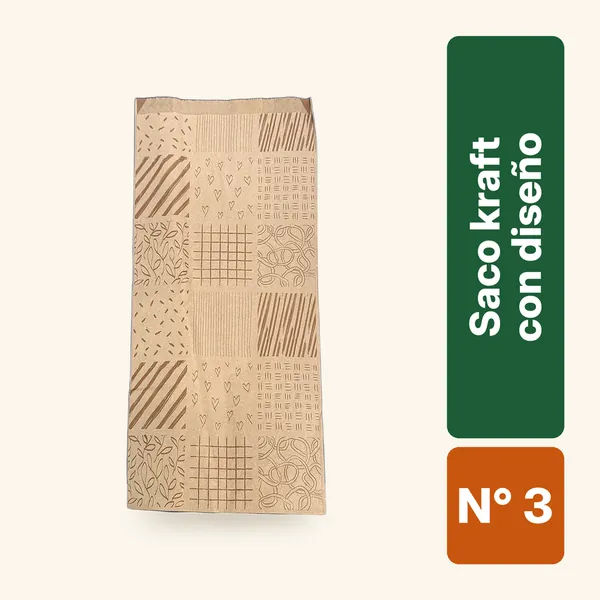
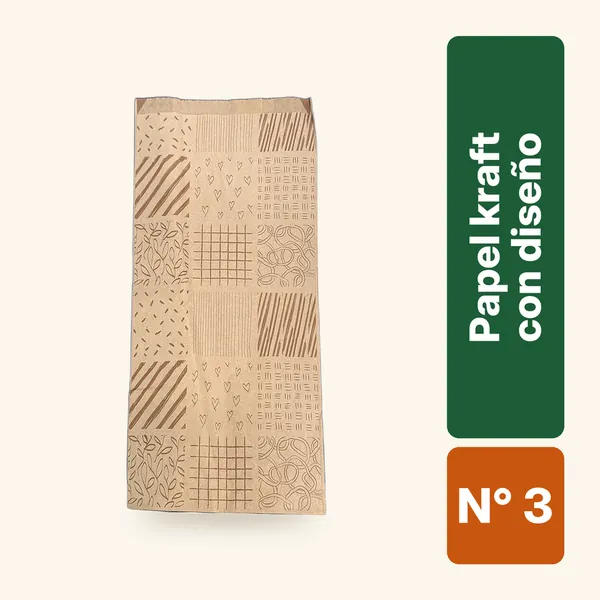
Catálogo: papel kraft con selector de tamaño, fotos de bolsas de basura, guante y cofias
- Papel kraft N° 1 a 7 en una tarjeta con cuadritos (N° 3 sin y con diseño aparte),
  como el saco kraft; sin tamaño elegido el botón queda desactivado.
- El buscador marca el tamaño buscado («saco kraft 4», «papel kraft n° 5»).
- Fotos con fondo liso de 6 bolsas de basura, guante de polietileno y cofias
  (carpeta de David, nombre exacto). La bolsa Impeke queda sin foto: la foto
  dice 50 × 70 y en la carta es 80 × 110.

Changed region(s): [[0.78, 0.21, 0.9, 0.57]]

diff --git a/carta/index.html b/carta/index.html
@@ -202,8 +202,10 @@ body.vermayor .mayor{display:block}
 .szchip:focus-visible{outline:3px solid var(--sol);outline-offset:2px}
 .szchip .szn{position:absolute;top:-8px;right:-8px;min-width:19px;height:19px;padding:0 5px;border-radius:10px;background:var(--sol-t);color:#fff;font-size:11px;font-weight:800;line-height:19px;text-align:center;box-shadow:0 0 0 2px #fff}
 .info small.varped{color:var(--campo);font-weight:700;font-size:12px;line-height:1.35}
+.szchip.ancho{width:auto;min-width:42px;padding:0 7px}
+.info .szchip small.szd{font-size:8.5px;margin:1px 0 0;white-space:nowrap}
 .paso.pista-var{display:flex}
-.paso.pista-var span{flex:1;display:inline-flex;align-items:center;justify-content:center;min-height:46px;padding:0 18px;border:1.5px dashed var(--borde);border-radius:12px;color:var(--suave);font-size:15px;font-weight:700;white-space:nowrap}
+.paso.pista-var .elige,#carta .prod .paso.pista-var .elige{flex:1;width:100%;height:auto;min-height:46px;padding:0 18px;border:1.5px dashed var(--borde);border-radius:12px;background:#fff;color:var(--suave);font-family:inherit;font-size:15px;font-weight:700;white-space:nowrap;opacity:1;cursor:default;display:flex;align-items:center;justify-content:center}
 .tapa{display:flex;align-items:center;justify-content:space-between;gap:10px;font-size:13px}
 .tapa .tn{min-width:0;color:var(--campo);font-weight:600;line-height:1.3}
 .tapa .tn small{display:inline-block;font-size:10.5px;font-weight:800;letter-spacing:.05em;text-transform:uppercase;background:var(--masa);color:var(--campo);border-radius:5px;padding:1px 6px;margin-right:5px}
@@ -1373,17 +1375,17 @@ const LOCALES = {
       {cod:"BOL030",cat:"Bolsas, sacos y papeles",nombre:"Malla curanto amarilla",detalle:"Precio por unidad",precio:null,stock:1220,foto:"../img/productos/fotos/BOL030.webp"},
       {cod:"BOL025",cat:"Bolsas, sacos y papeles",nombre:"Etiquetas regalo unidad",detalle:"Precio por unidad",precio:30,stock:0,sinStock:true},
       {cod:"BOL035",cat:"Bolsas, sacos y papeles",nombre:"Papel kraft con diseño N° 3",detalle:"Precio por unidad",precio:null,stock:276,foto:"../img/productos/fotos/BOL035.webp"},
-      {cod:"BOL039",cat:"Bolsas, sacos y papeles",nombre:"Papel kraft N° 5",detalle:"Precio por unidad",precio:null,stock:500},
-      {cod:"BOL038",cat:"Bolsas, sacos y papeles",nombre:"Papel kraft N° 4",detalle:"Precio por unidad",precio:null,stock:950},
+      {cod:"BOL039",cat:"Bolsas, sacos y papeles",nombre:"Papel kraft N° 5",detalle:"Precio por unidad",precio:null,stock:500,foto:"../img/productos/fotos/BOL039.webp"},
+      {cod:"BOL038",cat:"Bolsas, sacos y papeles",nombre:"Papel kraft N° 4",detalle:"Precio por unidad",precio:null,stock:950,foto:"../img/productos/fotos/BOL038.webp"},
       {cod:"BOL023",cat:"Bolsas, sacos y papeles",nombre:"Cartucho extra corto kraft",detalle:"Precio por unidad",precio:null,stock:1250},
-      {cod:"BOL042",cat:"Bolsas, sacos y papeles",nombre:"Papel kraft sin diseño N° 3",detalle:"Precio por unidad",precio:null,stock:1850},
+      {cod:"BOL042",cat:"Bolsas, sacos y papeles",nombre:"Papel kraft sin diseño N° 3",detalle:"Precio por unidad",precio:null,stock:1850,foto:"../img/productos/fotos/BOL042.webp"},
       {cod:"BOL022",cat:"Bolsas, sacos y papeles",nombre:"Cartucho corto kraft medida 00",detalle:"Precio por unidad",precio:null,stock:150},
-      {cod:"BOL040",cat:"Bolsas, sacos y papeles",nombre:"Papel kraft N° 6",detalle:"Precio por unidad",precio:null,stock:1800},
-      {cod:"BOL041",cat:"Bolsas, sacos y papeles",nombre:"Papel kraft N° 7",detalle:"Precio por unidad",precio:null,stock:750},
+      {cod:"BOL040",cat:"Bolsas, sacos y papeles",nombre:"Papel kraft N° 6",detalle:"Precio por unidad",precio:null,stock:1800,foto:"../img/productos/fotos/BOL040.webp"},
+      {cod:"BOL041",cat:"Bolsas, sacos y papeles",nombre:"Papel kraft N° 7",detalle:"Precio por unidad",precio:null,stock:750,foto:"../img/productos/fotos/BOL041.webp"},
       {cod:"BOL002",cat:"Bolsas, sacos y papeles",nombre:"Bolsa camiseta 28 × 35",detalle:"Precio por unidad",precio:9,stock:1800,foto:"../img/productos/fotos/BOL002.webp"},
       {cod:"BOL003",cat:"Bolsas, sacos y papeles",nombre:"Bolsa camiseta 32 × 40",detalle:"Precio por unidad",precio:10,stock:1400,foto:"../img/productos/fotos/BOL003.webp"},
       {cod:"BOL004",cat:"Bolsas, sacos y papeles",nombre:"Bolsa camiseta 40 × 50",detalle:"Precio por unidad",precio:18,stock:1100,foto:"../img/productos/fotos/BOL004.webp"},
-      {cod:"BOL036",cat:"Bolsas, sacos y papeles",nombre:"Papel kraft N° 1",detalle:"Precio por unidad",precio:null,stock:687},
+      {cod:"BOL036",cat:"Bolsas, sacos y papeles",nombre:"Papel kraft N° 1",detalle:"Precio por unidad",precio:null,stock:687,foto:"../img/productos/fotos/BOL036.webp"},
       {cod:"BOL026",cat:"Bolsas, sacos y papeles",nombre:"Film 30 m",detalle:"Precio por unidad",precio:750,stock:30,foto:"../img/productos/fotos/BOL026.webp"},
       {cod:"BOL031",cat:"Bolsas, sacos y papeles",nombre:"Papel antigrasa",detalle:"Precio por unidad",precio:150,stock:686},
       {cod:"BOL046",cat:"Bolsas, sacos y papeles",nombre:"Saco blanco 1/8",detalle:"Precio por unidad",precio:850,foto:"../img/productos/fotos/BOL046.webp"},
@@ -1395,7 +1397,7 @@ const LOCALES = {
       {cod:"BOL016",cat:"Bolsas, sacos y papeles",nombre:"Bolsa transparente 14 × 25",detalle:"Precio por kilo",precio:null,stock:5.35,foto:"../img/productos/fotos/BOL016.webp"},
       {cod:"BOL008",cat:"Bolsas, sacos y papeles",nombre:"Bolsa pan de pascua 1 kg con diseño",detalle:"Precio por unidad",precio:null,stock:1273,foto:"../img/productos/fotos/BOL008.webp"},
       {cod:"BOL005",cat:"Bolsas, sacos y papeles",nombre:"Bolsa camiseta 45 × 55",detalle:"Precio por unidad · paquete de 100 u",precio:22,upp:100,stock:100,foto:"../img/productos/fotos/BOL005.webp"},
-      {cod:"BOL037",cat:"Bolsas, sacos y papeles",nombre:"Papel kraft N° 2",detalle:"Precio por unidad",precio:null,stock:445},
+      {cod:"BOL037",cat:"Bolsas, sacos y papeles",nombre:"Papel kraft N° 2",detalle:"Precio por unidad",precio:null,stock:445,foto:"../img/productos/fotos/BOL037.webp"},
       {cod:"BOL021",cat:"Bolsas, sacos y papeles",nombre:"Cartucho blanco papel kraft 3 1/4 × 9 pulg",detalle:"Precio por unidad",precio:null,stock:1985},
       {cod:"BOL020",cat:"Bolsas, sacos y papeles",nombre:"Cartucho blanco papel kraft 3 1/4 × 9 1/2 pulg",detalle:"Precio por unidad",precio:null,stock:1400},
       {cod:"BOL019",cat:"Bolsas, sacos y papeles",nombre:"Cartucho blanco papel kraft 3 1/4 × 7 pulg",detalle:"Precio por unidad",precio:null,stock:716},
@@ -1436,7 +1438,7 @@ const LOCALES = {
       {cod:"VAS002",cat:"Vasos",nombre:"Vaso 300 cc Good Food",detalle:"Precio por unidad · paquete de 50 u",precio:38,upp:50,stock:2700},
       {cod:"VAS008",cat:"Vasos",nombre:"Vaso café liso",detalle:"Precio por unidad",precio:null,stock:246},
       {cod:"VAS009",cat:"Vasos",nombre:"Vaso café corrugado marrón 8 oz",detalle:"Precio por unidad · paquete de 25 u",precio:null,upp:25,stock:500,nuevo:true},
-      {cod:"DES025",cat:"Platos, cubiertos y desechables",nombre:"Guante polietileno",detalle:"Precio por unidad · paquete de 100 u",precio:23,upp:100,stock:19100},
+      {cod:"DES025",cat:"Platos, cubiertos y desechables",nombre:"Guante polietileno",detalle:"Precio por unidad · paquete de 100 u",precio:23,upp:100,stock:19100,foto:"../img/productos/fotos/DES025.webp"},
       {cod:"DES005",cat:"Platos, cubiertos y desechables",nombre:"Brocheta 15 cm",detalle:"Precio por unidad · paquete de 100 u",precio:8,upp:100,stock:1700},
       {cod:"DES042",cat:"Platos, cubiertos y desechables",nombre:"Revolvedor corto madera",detalle:"Precio por unidad",precio:590,stock:2700},
       {cod:"DES034",cat:"Platos, cubiertos y desechables",nombre:"Plato cartón N° 1",detalle:"Precio por unidad",precio:60,stock:121,foto:"../img/productos/fotos/DES034.webp"},
@@ -1455,7 +1457,7 @@ const LOCALES = {
       {cod:"DES038",cat:"Platos, cubiertos y desechables",nombre:"Plato plástico 17 cm desechable",detalle:"Precio por unidad · paquete de 20 u",precio:50,upp:20,stock:940,foto:"../img/productos/fotos/DES038.webp"},
       {cod:"DES037",cat:"Platos, cubiertos y desechables",nombre:"Plato blanco N° 2 plástico",detalle:"Precio por unidad",precio:50,stock:0,sinStock:true},
       {cod:"DES023",cat:"Platos, cubiertos y desechables",nombre:"Cuchillo plástico blanco",detalle:"Precio por paquete",precio:990,stock:0,sinStock:true},
-      {cod:"DES011",cat:"Platos, cubiertos y desechables",nombre:"Cofia negra",detalle:"Precio por unidad",precio:16,stock:1117},
+      {cod:"DES011",cat:"Platos, cubiertos y desechables",nombre:"Cofia negra",detalle:"Precio por unidad",precio:16,stock:1117,foto:"../img/productos/fotos/DES011.webp",fotos:["../img/productos/fotos/DES011.webp", "../img/productos/fotos/DES011-2.webp"]},
       {cod:"DES017",cat:"Platos, cubiertos y desechables",nombre:"Cuchara plástica",detalle:"Precio por unidad · paquete de 50 u",precio:30,upp:50},
       {cod:"DES022",cat:"Platos, cubiertos y desechables",nombre:"Cuchillo madera Bio Ely",detalle:"Precio por paquete de 100 u",precio:990,stock:1700},
       {cod:"DES049",cat:"Platos, cubiertos y desechables",nombre:"Tenedor plástico",detalle:"Precio por unidad",precio:20},
@@ -1481,7 +1483,7 @@ const LOCALES = {
       {cod:"DES014",cat:"Platos, cubiertos y desechables",nombre:"Cuchara de madera Bio Ely",detalle:"Precio por unidad · paquete de 100 u",precio:null,stock:1400,upp:100},
       {cod:"DES032",cat:"Platos, cubiertos y desechables",nombre:"Palito coctel madera bambú 6,5 cm",detalle:"Precio por unidad · paquete de 100 u",precio:null,stock:100,upp:100},
       {cod:"DES033",cat:"Platos, cubiertos y desechables",nombre:"Plato blanco N° 2 cartón 195 ml",detalle:"Precio por unidad · paquete de 250 u",precio:63,upp:250,stock:500,foto:"../img/productos/fotos/DES033.webp"},
-      {cod:"DES010",cat:"Platos, cubiertos y desechables",nombre:"Cofia blanca",detalle:"Precio por unidad",precio:15,stock:1256},
+      {cod:"DES010",cat:"Platos, cubiertos y desechables",nombre:"Cofia blanca",detalle:"Precio por unidad",precio:15,stock:1256,foto:"../img/productos/fotos/DES010.webp"},
       {cod:"DES048",cat:"Platos, cubiertos y desechables",nombre:"Tenedor desechable Good Food",detalle:"Precio por unidad · paquete de 100 u",precio:20,upp:100,stock:3900},
       {cod:"DES031",cat:"Platos, cubiertos y desechables",nombre:"Pack cubiertos con servilleta",detalle:"Precio por unidad",precio:null,stock:208,nuevo:true},
       {cod:"POT013",cat:"Potes y salseros",nombre:"Pote transparente con tapa 24 oz",detalle:"Precio por unidad",precio:171},
@@ -1593,13 +1595,13 @@ const LOCALES = {
       {cod:"ASE014",cat:"Aseo",nombre:"Trapero húmedo olor naranja Virginia",detalle:"Precio por unidad · paquete de 10 u",precio:100,upp:10,stock:90},
       {cod:"ASE011",cat:"Aseo",nombre:"Trapero algodón Virutex",detalle:"Precio por unidad",precio:1500},
       {cod:"ASE010",cat:"Aseo",nombre:"Prestobarba Venus suave aloe vera Gillette",detalle:"Precio por unidad",precio:774,stock:75},
-      {cod:"ASE006",cat:"Aseo",nombre:"Bolsa basura 110 × 120 Doña Gaby",detalle:"Precio por unidad · paquete de 10 u",precio:null,stock:260,upp:10},
-      {cod:"ASE007",cat:"Aseo",nombre:"Bolsa basura con asas 50 × 65 Superior",detalle:"Precio por unidad · paquete de 10 u",precio:260,upp:10,stock:130},
-      {cod:"ASE002",cat:"Aseo",nombre:"Bolsa basura 70 × 90 Clean",detalle:"Precio por unidad · paquete de 10 u",precio:500,upp:10,stock:23},
+      {cod:"ASE006",cat:"Aseo",nombre:"Bolsa basura 110 × 120 Doña Gaby",detalle:"Precio por unidad · paquete de 10 u",precio:null,stock:260,upp:10,foto:"../img/productos/fotos/ASE006.webp"},
+      {cod:"ASE007",cat:"Aseo",nombre:"Bolsa basura con asas 50 × 65 Superior",detalle:"Precio por unidad · paquete de 10 u",precio:260,upp:10,stock:130,foto:"../img/productos/fotos/ASE007.webp"},
+      {cod:"ASE002",cat:"Aseo",nombre:"Bolsa basura 70 × 90 Clean",detalle:"Precio por unidad · paquete de 10 u",precio:500,upp:10,stock:23,foto:"../img/productos/fotos/ASE002.webp"},
       {cod:"ASE003",cat:"Aseo",nombre:"Bolsa basura 80 × 110 Impeque",detalle:"Precio por unidad · paquete de 10 u",precio:595,upp:10,stock:55},
-      {cod:"ASE001",cat:"Aseo",nombre:"Bolsa basura 50 × 70 Superior",detalle:"Precio por unidad · paquete de 10 u",precio:395,upp:10,stock:150},
-      {cod:"ASE004",cat:"Aseo",nombre:"Bolsa basura 80 × 110 Virutex",detalle:"Precio por unidad · paquete de 10 u",precio:825,upp:10,stock:39},
-      {cod:"ASE005",cat:"Aseo",nombre:"Bolsa basura 80 × 120 Superior",detalle:"Precio por unidad · paquete de 10 u",precio:595,upp:10,stock:30},
+      {cod:"ASE001",cat:"Aseo",nombre:"Bolsa basura 50 × 70 Superior",detalle:"Precio por unidad · paquete de 10 u",precio:395,upp:10,stock:150,foto:"../img/productos/fotos/ASE001.webp"},
+      {cod:"ASE004",cat:"Aseo",nombre:"Bolsa basura 80 × 110 Virutex",detalle:"Precio por unidad · paquete de 10 u",precio:825,upp:10,stock:39,foto:"../img/productos/fotos/ASE004.webp"},
+      {cod:"ASE005",cat:"Aseo",nombre:"Bolsa basura 80 × 120 Superior",detalle:"Precio por unidad · paquete de 10 u",precio:595,upp:10,stock:30,foto:"../img/productos/fotos/ASE005.webp"},
       {cod:"ASE013",cat:"Aseo",nombre:"Trapero húmedo olor lavanda Virginia",detalle:"Precio por unidad · paquete de 10 u",precio:100,upp:10,stock:140},
       {cod:"OTR012",cat:"Lácteos",nombre:"Quesillo 230 g Los Tilos",detalle:"Precio por unidad",precio:1900},
       {cod:"OTR001",cat:"Golosinas",nombre:"Bon o bon dulce de leche",detalle:"Precio por unidad",precio:118},
@@ -1998,16 +2000,18 @@ const fotoHTML=p=>{const n=fotosDe(p).length;return `<button type="button" class
 /* Productos que se venden en varios tamaños (pedido de David, 17/11/2026): en la carta van en UNA tarjeta con cuadritos para
    elegir el tamaño. Cada tamaño sigue siendo su propio producto (su código de MyPyme, precio, foto y línea en el pedido).
    Al agregar un tamaño la tarjeta vuelve a quedar sin elegir, por si el cliente quiere llevar otro tamaño. */
-const VARIANTES=[{id:"saco-kraft",nombre:"Saco kraft",re:/^saco kraft (n° ?(\d+))$/i,foto:"../img/productos/fotos/saco-kraft.webp"}];
+const VARIANTES=[
+  {id:"saco-kraft",nombre:"Saco kraft",re:/^saco kraft n° ?(?<n>\d+)$/i,foto:"../img/productos/fotos/saco-kraft.webp"},
+  {id:"papel-kraft",nombre:"Papel kraft",re:/^papel kraft (?:(?<d>sin|con) diseño )?n° ?(?<n>\d+)$/i,foto:"../img/productos/fotos/papel-kraft.webp"}];
 const VARG={}, varSel={};
 VARIANTES.forEach(v=>{const ms=L.productos.filter(p=>!p.retirado&&!esPieza(p)&&v.re.test(p.nombre));if(ms.length<2)return;
-  ms.sort((a,b)=>+a.nombre.match(v.re)[2]- +b.nombre.match(v.re)[2]);
-  ms.forEach(p=>{p.var=v.id;p.talla=p.nombre.match(v.re)[1]});
+  ms.forEach(p=>{const m=p.nombre.match(v.re).groups;p.var=v.id;p.num=+m.n;p.dis=(m.d||"").toLowerCase();p.talla="N° "+m.n+(p.dis?` ${p.dis} diseño`:"")});
+  ms.sort((a,b)=>a.num-b.num||(a.dis==="con")-(b.dis==="con"));
   const prs=ms.map(precioDe).filter(x=>x!=null);
   const vp={cod:"VAR-"+v.id,nombre:v.nombre,cat:ms[0].cat,catBase:ms[0].catBase,detalle:"Precio por unidad",precio:prs.length?Math.min(...prs):null,virtual:true,var:v.id,foto:v.foto,fotos:[v.foto,...ms.map(p=>p.foto).filter(Boolean)]};
   PROD[vp.cod]=vp;VARG[v.id]={nombre:v.nombre,ms,vp}});
 const tallasHTML=g=>{const v=VARG[g],s=varSel[g];
-  return `<div class="tallas"><span class="tl">Elige el tamaño</span><div class="tsz" role="group" aria-label="Tamaño de ${v.nombre}">${v.ms.map(p=>`<button type="button" class="szchip${agotado(p)?" sin":""}" data-vg="${g}" data-varsel="${p.cod}" aria-pressed="${p.cod===s}" aria-label="${p.talla}"><span aria-hidden="true"><small>N°</small>${p.talla.replace(/^n° ?/i,"")}</span><span class="szn" aria-hidden="true" hidden></span></button>`).join("")}</div><small class="varped" aria-live="polite" hidden></small></div>`};
+  return `<div class="tallas"><span class="tl">Elige el tamaño</span><div class="tsz" role="group" aria-label="Tamaño de ${v.nombre}">${v.ms.map(p=>`<button type="button" class="szchip${agotado(p)?" sin":""}${p.dis?" ancho":""}" data-vg="${g}" data-varsel="${p.cod}" aria-pressed="${p.cod===s}" aria-label="${p.talla}"><span aria-hidden="true"><small>N°</small>${p.num}${p.dis?`<small class="szd">${p.dis} diseño</small>`:""}</span><span class="szn" aria-hidden="true" hidden></span></button>`).join("")}</div><small class="varped" aria-live="polite" hidden></small></div>`};
 const cardVar=g=>card((varSel[g]&&PROD[varSel[g]])||VARG[g].vp,null,g);
 // tarjetas de una lista: los tamaños de un mismo producto salen una sola vez, en una tarjeta con cuadritos
 const cardsDe=(lista,c,ya=new Set())=>lista.map(p=>{if(!p.var||!VARG[p.var])return card(p,c);if(ya.has(p.var))return "";ya.add(p.var);return cardVar(p.var)}).join("");
@@ -2024,7 +2028,7 @@ const card=(p,c,vg)=>`
       <article class="prod${vg?" var":""}${agotado(p)?" agotado":""}${p.oferta!=null||p.ofertaFmt||p.promo?" oferta":""}" data-prod="${p.cod}"${vg?` data-var="${vg}"`:c===FAV?"":` id="p-${p.cod}"`}>${p.virtual?"":`<button type="button" class="corazon" data-fav="${p.cod}" aria-pressed="${esFavCli(p.cod)}" aria-label="Guardar ${p.nombre} en mis favoritos"><svg aria-hidden="true" viewBox="0 0 24 24" width="22" height="22"><path d="M12 20.5s-7.5-4.6-9.3-9.2C1.4 8 3.4 4.5 7 4.5c2 0 3.6 1.1 5 3 1.4-1.9 3-3 5-3 3.6 0 5.6 3.5 4.3 6.8-1.8 4.6-9.3 9.2-9.3 9.2z"/></svg></button>`}
         <div class="ico">${p.foto?fotoHTML(p):((ICONOS[p.catBase||p.cat]||(p.cat==="Hueveras"?ICONOS.Huevos:ICONOS._)))}</div>
         <div class="info"><small class="tipo-p">${p.cat}</small><b>${vg?VARG[vg].nombre:p.nombre}</b>${vg?tallasHTML(vg):""}${modosHTML(p)}${p.detalle&&!tienePaq(p)&&!formaVenta(p)?`<small>${p.detalle}${tapasDe[p.cod]?" · con "+pieza(tapaDe(p)):""}</small>`:(tapasDe[p.cod]&&!tienePaq(p)?`<small>Con ${pieza(tapaDe(p))}</small>`:"")}${precioHTML(p)}${agotado(p)?`<span class="tag">${p.sinStock?"Stock 0 en el conteo":`Sin ${pieza(tapaDe(p))}s en stock`}</span>`:""}<small class="tope" hidden></small><small class="enped" hidden></small></div>
-        ${p.virtual?`<div class="paso vacio pista-var"><span>Elige un tamaño</span></div>`:`<div class="paso vacio">
+        ${p.virtual?`<div class="paso vacio pista-var"><button type="button" class="elige" disabled>Elige un tamaño</button></div>`:`<div class="paso vacio">
           <button class="menos" data-cod="${p.cod}" data-d="-1" aria-label="Quitar ${p.nombre}">−</button>
           <input class="cant" type="number" inputmode="numeric" min="0" step="1" data-q="${p.cod}" value="0" aria-label="Cantidad de ${p.nombre}${tienePaq(p)?" (en la modalidad elegida)":""}">
           <button class="mas" data-cod="${p.cod}" data-d="1" aria-label="Agregar ${p.nombre}">+</button>
@@ -2160,6 +2164,11 @@ verSeccion(leePref("seccion-"+KEY)||SECC[0].id,{desplazar:false});
     // productos parecidos: otros de las mismas secciones que lo encontrado
     const vistos=new Set(lista.map(p=>p.cod)),secs=[...new Set(lista.map(p=>p.cat))];
     const tambien=exactos.length?visibles.filter(p=>secs.slice(0,2).includes(p.cat)&&!vistos.has(p.cod)).slice(0,6):[];
+    // «saco kraft 4» o «papel kraft n° 5»: la tarjeta de tamaños aparece con ese tamaño ya elegido (el N° 3 del papel kraft necesita «sin» o «diseño»)
+    const nums=(txt.match(/\d+/g)||[]).map(Number),tp=nPlano(txt);
+    if(nums.length)Object.keys(VARG).forEach(g=>{if(!lista.some(p=>p.var===g))return;let c=VARG[g].ms.filter(p=>nums.includes(p.num));
+      if(c.length>1){const sin=/\bsin\b/.test(tp),con=!sin&&/disen/.test(tp);c=sin?c.filter(p=>p.dis==="sin"):con?c.filter(p=>p.dis==="con"):[]}
+      varSel[g]=c.length===1?c[0].cod:null});
     const t=txt.replace(/[<>&"]/g,""),ya=new Set(),htmlL=cardsDe(lista,FAV,ya),htmlT=cardsDe(tambien,FAV,ya),nl=nProd(lista);
     res.innerHTML=`<h2 id="resTit">${lista.length?(exactos.length?`Resultados para «${t}»`:`No encontramos «${t}» tal cual; quizás buscabas:`):`No encontramos «${t}»`}</h2>`
       +(lista.length?`<p class="res-n">${nl} producto${nl===1?"":"s"}${secs.length?" en: ":""}${secs.slice(0,6).map(cn=>`<button type="button" class="res-sec" data-sec="g-${slug(cn)}">${cn}</button>`).join("")}</p>`:`<p class="res-n">Prueba con otra palabra, por ejemplo «vaso», «huevo» o «aluminio»; también puedes revisar todas las secciones en el menú.</p>`)

diff --git a/CLAUDE.md b/CLAUDE.md
@@ -198,7 +198,9 @@ David no quiere que la dirección diga «jefatura»; eligió **avicolasb.com**, 
 - `VARIANTES` (antes de `const card=`) agrupa por nombre los productos `Saco kraft N° X` (BOL049–BOL056, sin manillas) en UNA tarjeta: cuadritos N° 0 a 7, «Desde $990 c/u» y «Elige un tamaño». Al tocar un tamaño se ve su precio, su foto y el botón Agregar; al agregar un tamaño nuevo la tarjeta vuelve a quedar sin elegir y el cuadrito muestra cuántos lleva («En tu pedido: N° 2 × 1 · N° 5 × 2»). Tocar de nuevo un tamaño ya pedido muestra su − cantidad +.
 - Cada tamaño sigue siendo su propio producto (código MyPyme, precio y línea en el pedido, en el carro y en SabAPP). La tarjeta del grupo usa un producto virtual `VAR-saco-kraft` (solo en `PROD`, nunca en el carro) con la foto `img/productos/fotos/saco-kraft.webp` y la galería de todos los tamaños. `cardsDe()` deja una sola tarjeta por grupo en secciones y búsqueda; `nProd()` cuenta el grupo como 1 producto.
 - Fotos nuevas del saco kraft (sin manillas): foto Pixabay 2478556 (licencia de Pixabay, uso comercial libre), recortada sin fondo y sin el clip, con la etiqueta de siempre (N° 0, 1, 2, 4, 5, 6, 7 y «N° 0 a 7»). El N° 3 (BOL052) conserva su foto de saco con diseño.
-- Para agrupar otro producto por tamaños basta agregar una entrada a `VARIANTES` con su expresión de nombre.
+- Para agrupar otro producto por tamaños basta agregar una entrada a `VARIANTES` con su expresión de nombre (grupos con nombre: `n` = número, `d` = «sin»/«con» diseño).
+- 17/11/2026 (LEEME de la carpeta de David, «cambio 2»): también «Papel kraft» N° 1 a 7 (BOL036–BOL042; el N° 3 sin diseño BOL042 y con diseño BOL035 van en dos cuadritos anchos). Fotos: la misma del saco kraft con etiqueta «Papel kraft»; el N° 3 con diseño con su foto, etiqueta «Papel kraft con diseño». Sin tamaño elegido el botón queda desactivado («Elige un tamaño»). El buscador elige el tamaño si la búsqueda lo dice («saco kraft 4», «papel kraft n° 5»; el N° 3 del papel necesita «sin» o «diseño»; si no queda claro, la tarjeta queda sin elegir).
+- Fotos nuevas del 17/11 (fondo liso): bolsas de basura ASE001, ASE002, ASE004–ASE007, guante DES025, cofias DES010 y DES011. **ASE003 «Bolsa basura 80 × 110 Impeque» quedó sin foto:** la foto de la carpeta dice 50 × 70 (falta que David confirme).
 - Fotos que David y yo quedamos de reemplazar (revisión del 17/11/2026, buscando en Pexels/Pixabay): bolsa camiseta (5 tamaños, rectángulo con fondo), bolsa de baja densidad (5), bolsa de celofán (2), CT bio (la misma foto en CT 3 cuadrado, CT 5 y CT 6 con y sin división) y la 2ª foto del C-30. Hecho: saco kraft.
 
 ## Editor del catálogo (solo para David) — creado el 14/11/2026
